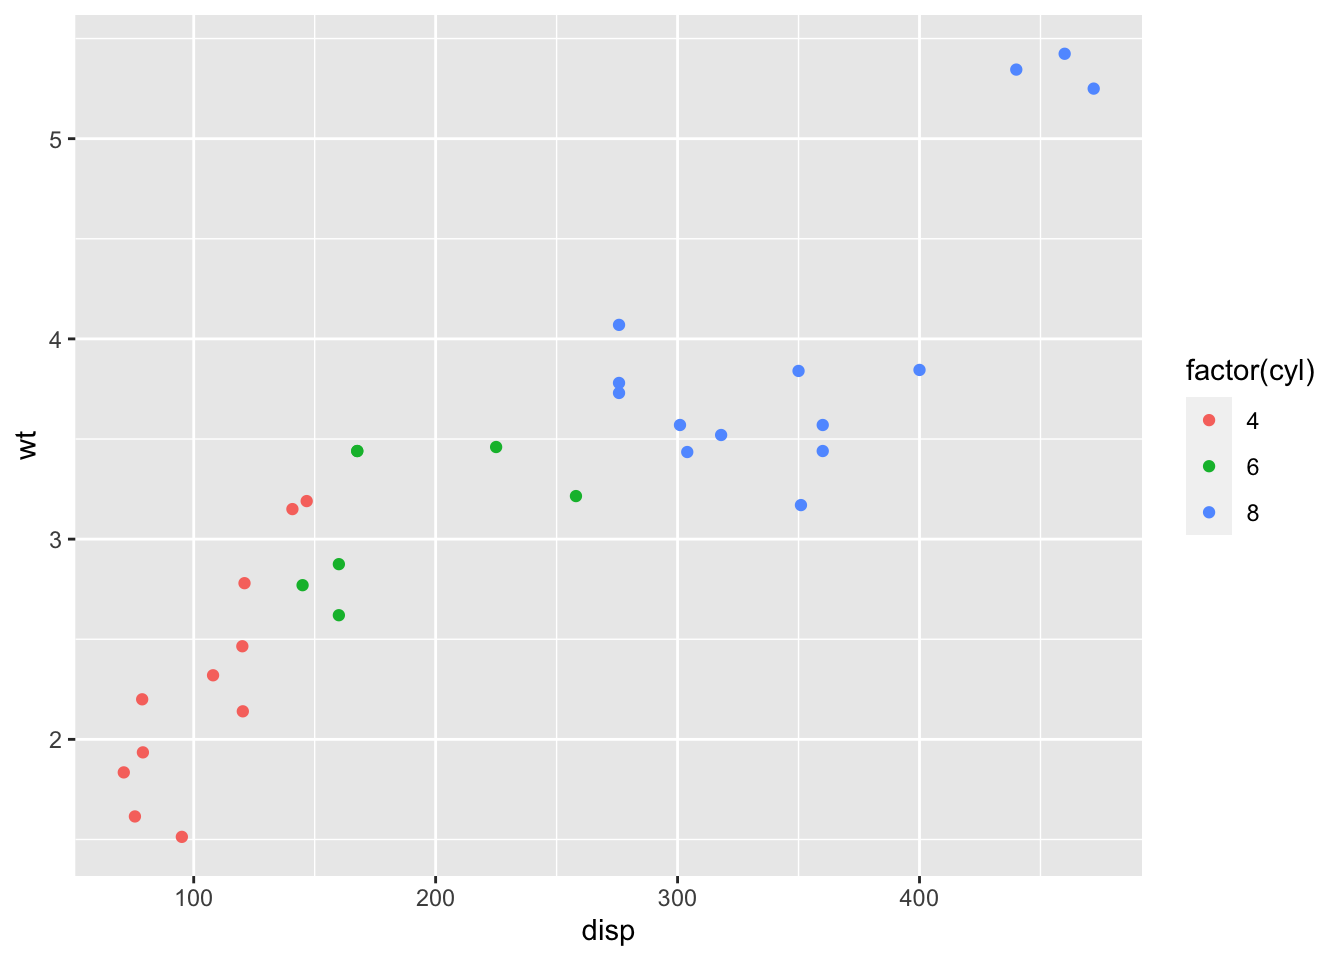
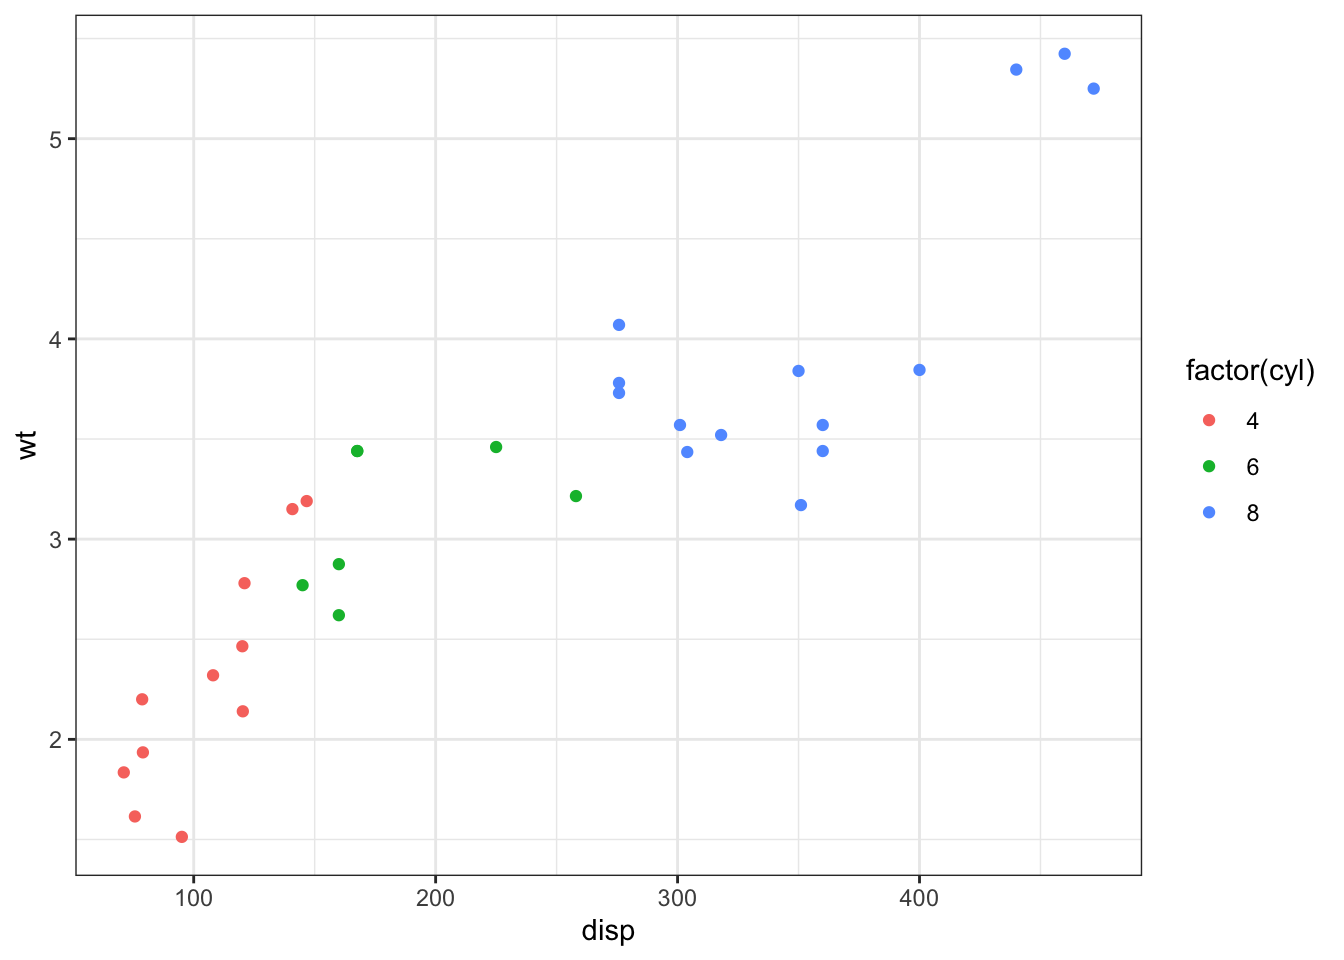
Minor updates to lecture

diff --git a/docs/L19-Example_Analysis_mtcars.html b/docs/L19-Example_Analysis_mtcars.html
@@ -398,7 +398,8 @@ pre > code.sourceCode > span > a:first-child::before { text-decoration: underlin
 </header>
 
 <div class="cell">
-<div class="sourceCode cell-code" id="cb1"><pre class="sourceCode r code-with-copy"><code class="sourceCode r"><span id="cb1-1"><a href="#cb1-1" aria-hidden="true" tabindex="-1"></a><span class="fu">library</span>(ggplot2)</span></code><button title="Copy to Clipboard" class="code-copy-button"><i class="bi"></i></button></pre></div>
+<div class="sourceCode cell-code" id="cb1"><pre class="sourceCode r code-with-copy"><code class="sourceCode r"><span id="cb1-1"><a href="#cb1-1" aria-hidden="true" tabindex="-1"></a><span class="fu">library</span>(ggplot2)</span>
+<span id="cb1-2"><a href="#cb1-2" aria-hidden="true" tabindex="-1"></a><span class="fu">theme_set</span>(<span class="fu">theme_bw</span>())</span></code><button title="Copy to Clipboard" class="code-copy-button"><i class="bi"></i></button></pre></div>
 </div>
 <section id="understanding-data" class="level1" data-number="19">
 <h1 data-number="19"><span class="header-section-number">19</span> Understanding Data</h1>
@@ -513,18 +514,10 @@ pre > code.sourceCode > span > a:first-child::before { text-decoration: underlin
 <div class="cell">
 <div class="sourceCode cell-code" id="cb6"><pre class="sourceCode r code-with-copy"><code class="sourceCode r"><span id="cb6-1"><a href="#cb6-1" aria-hidden="true" tabindex="-1"></a>dispmodel <span class="ot">&lt;-</span> <span class="fu">lm</span>(mpg <span class="sc">~</span> disp <span class="sc">*</span> <span class="fu">factor</span>(cyl), <span class="at">data =</span> mtcars)</span>
 <span id="cb6-2"><a href="#cb6-2" aria-hidden="true" tabindex="-1"></a></span>
-<span id="cb6-3"><a href="#cb6-3" aria-hidden="true" tabindex="-1"></a><span class="fu">plot</span>(dispmodel, <span class="at">col =</span> mtcars<span class="sc">$</span>cyl)</span></code><button title="Copy to Clipboard" class="code-copy-button"><i class="bi"></i></button></pre></div>
+<span id="cb6-3"><a href="#cb6-3" aria-hidden="true" tabindex="-1"></a><span class="fu">par</span>(<span class="at">mfrow =</span> <span class="fu">c</span>(<span class="dv">2</span>,<span class="dv">2</span>))</span>
+<span id="cb6-4"><a href="#cb6-4" aria-hidden="true" tabindex="-1"></a><span class="fu">plot</span>(dispmodel, <span class="at">col =</span> mtcars<span class="sc">$</span>cyl)</span></code><button title="Copy to Clipboard" class="code-copy-button"><i class="bi"></i></button></pre></div>
 <div class="cell-output-display">
 <p><img src="L19-Example_Analysis_mtcars_files/figure-html/unnamed-chunk-6-1.png" class="img-fluid" width="672"></p>
-</div>
-<div class="cell-output-display">
-<p><img src="L19-Example_Analysis_mtcars_files/figure-html/unnamed-chunk-6-2.png" class="img-fluid" width="672"></p>
-</div>
-<div class="cell-output-display">
-<p><img src="L19-Example_Analysis_mtcars_files/figure-html/unnamed-chunk-6-3.png" class="img-fluid" width="672"></p>
-</div>
-<div class="cell-output-display">
-<p><img src="L19-Example_Analysis_mtcars_files/figure-html/unnamed-chunk-6-4.png" class="img-fluid" width="672"></p>
 </div>
 </div>
 <ul>
@@ -538,18 +531,11 @@ pre > code.sourceCode > span > a:first-child::before { text-decoration: underlin
 </ul>
 <div class="cell">
 <div class="sourceCode cell-code" id="cb7"><pre class="sourceCode r code-with-copy"><code class="sourceCode r"><span id="cb7-1"><a href="#cb7-1" aria-hidden="true" tabindex="-1"></a>wtmodel <span class="ot">&lt;-</span> <span class="fu">lm</span>(mpg <span class="sc">~</span> wt <span class="sc">*</span> am, <span class="at">data =</span> mtcars)</span>
-<span id="cb7-2"><a href="#cb7-2" aria-hidden="true" tabindex="-1"></a><span class="fu">plot</span>(wtmodel)</span></code><button title="Copy to Clipboard" class="code-copy-button"><i class="bi"></i></button></pre></div>
+<span id="cb7-2"><a href="#cb7-2" aria-hidden="true" tabindex="-1"></a></span>
+<span id="cb7-3"><a href="#cb7-3" aria-hidden="true" tabindex="-1"></a><span class="fu">par</span>(<span class="at">mfrow =</span> <span class="fu">c</span>(<span class="dv">2</span>,<span class="dv">2</span>))</span>
+<span id="cb7-4"><a href="#cb7-4" aria-hidden="true" tabindex="-1"></a><span class="fu">plot</span>(wtmodel)</span></code><button title="Copy to Clipboard" class="code-copy-button"><i class="bi"></i></button></pre></div>
 <div class="cell-output-display">
 <p><img src="L19-Example_Analysis_mtcars_files/figure-html/unnamed-chunk-7-1.png" class="img-fluid" width="672"></p>
-</div>
-<div class="cell-output-display">
-<p><img src="L19-Example_Analysis_mtcars_files/figure-html/unnamed-chunk-7-2.png" class="img-fluid" width="672"></p>
-</div>
-<div class="cell-output-display">
-<p><img src="L19-Example_Analysis_mtcars_files/figure-html/unnamed-chunk-7-3.png" class="img-fluid" width="672"></p>
-</div>
-<div class="cell-output-display">
-<p><img src="L19-Example_Analysis_mtcars_files/figure-html/unnamed-chunk-7-4.png" class="img-fluid" width="672"></p>
 </div>
 </div>
 <ul>
